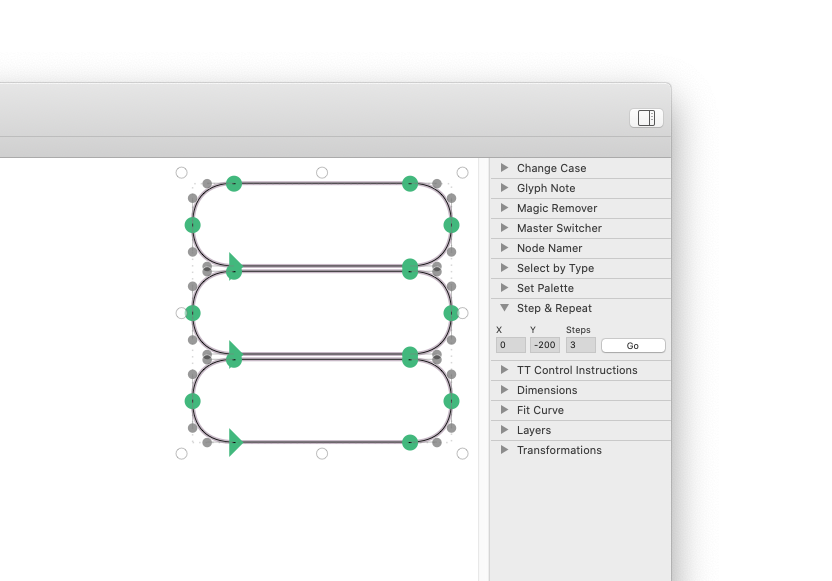
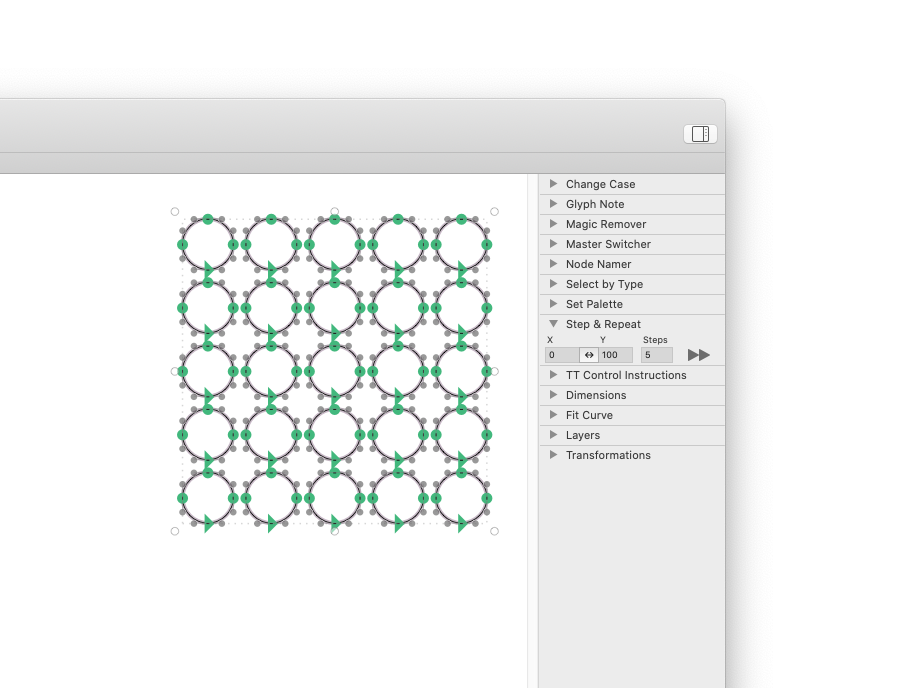
Add an X/Y exchange button

Changed region(s): [[0.0, 0.2478, 0.8125, 0.8055], [0.75, 0.1859, 0.8125, 0.2169]]

diff --git a/StepAndRepeat.glyphsPalette/Contents/Resources/plugin.py b/StepAndRepeat.glyphsPalette/Contents/Resources/plugin.py
@@ -79,26 +79,27 @@ class StepAndRepeat(PalettePlugin):
 		self.yField.setStringValue_(Glyphs.defaults['com.mekkablue.StepAndRepeat.y'])
 		self.stepsField.setStringValue_(Glyphs.defaults['com.mekkablue.StepAndRepeat.steps'])
 
-	# Action triggered by UI
+	# Actions triggered by UI
 	@objc.IBAction
 	def setXValue_( self, sender ):
-		
-		# Store value coming in from dialog
 		Glyphs.defaults['com.mekkablue.StepAndRepeat.x'] = sender.floatValue()
 		
-	# Action triggered by UI
 	@objc.IBAction
 	def setYValue_( self, sender ):
-		
-		# Store value coming in from dialog
 		Glyphs.defaults['com.mekkablue.StepAndRepeat.y'] = sender.floatValue()
 		
-	# Action triggered by UI
 	@objc.IBAction
 	def setStepsValue_( self, sender ):
-		
-		# Store value coming in from dialog
 		Glyphs.defaults['com.mekkablue.StepAndRepeat.steps'] = sender.intValue()
+		
+	@objc.IBAction
+	def exchangeXandY_(self, sender):
+		newY = Glyphs.defaults['com.mekkablue.StepAndRepeat.x']
+		newX = Glyphs.defaults['com.mekkablue.StepAndRepeat.y']
+		self.xField.setStringValue_(newX)
+		self.yField.setStringValue_(newY)
+		Glyphs.defaults['com.mekkablue.StepAndRepeat.x'] = newX
+		Glyphs.defaults['com.mekkablue.StepAndRepeat.y'] = newY
 
 	@objc.IBAction
 	def stepAndRepeat_(self, sender):
@@ -146,7 +147,7 @@ class StepAndRepeat(PalettePlugin):
 					else:
 						Message(
 							title="Step & Repeat Error",
-							message="The current values make no sense. X and Y cannot both be zero, and Steps must be at least 2. You need to tab out of the field or press the Return key to confirm an entry.",
+							message="The current values make no sense. X and Y cannot both be zero, and Steps must be at least 2. You may need to tab out of the field or press the Return key to confirm an entry.",
 							OKButton=None
 							)
 

diff --git a/README.md b/README.md
@@ -1,6 +1,6 @@
 # Step and Repeat
 
- Palette plug-in for the Glyphs.app font editor. Allows shift-repeating shapes.
+*Step and Repeat* (de: *Wiederholen*, fr: *Répéter*, es: *Repetir*, pt: *Repetir*) is a Palette plug-in for the Glyphs.app font editor. Allows shift-repeating shapes.
 
 ![Step and Repeat](StepAndRepeat.png)
 
@@ -9,9 +9,10 @@
 ### Usage
 
 1. Select one or more objects.
-2. Type (or step with arrows, Shift-arrows, or Cmd-Shift-arrows) an *X* shift, a *Y* shift.
+2. Type (or step with arrows, Shift-arrows, or Cmd-Shift-arrows) an *X* shift, a *Y* shift. At least one of them must not be zero.
+	* Press the double arrow ↔ button between the X and Y fields to exchange the two displacement values for another.
 3. Type (or step with arrows, Shift-arrows, or Cmd-Shift-arrows) a *Steps* number, including the original. Minimum: 2.
-4. Press the *Go* button.
+4. Press the ⏩ button to repeat the selected shapes.
 
 The newly created objects will be added to the selection for making further transformations possible.
 
@@ -20,8 +21,8 @@ The newly created objects will be added to the selection for making further tran
 You have a circle with a radius of 80 units, and you want a grid of 5×5 circles with 20 units between adjacent circles.
 
 1. Select the circle by double clicking one of its segments with the Select tool (shortcut V).
-2. Type *X* 100, *Y* 0, *Steps* 5, and press *Go.*
-3. Type *X* 0, *Y* 100, *Steps* 5, and press *Go.*
+2. Type *X* 100, *Y* 0, *Steps* 5, and press ⏩.
+3. Press ↔ to flip X and Y values, and press ⏩ again.
 
 ### Installation
 
